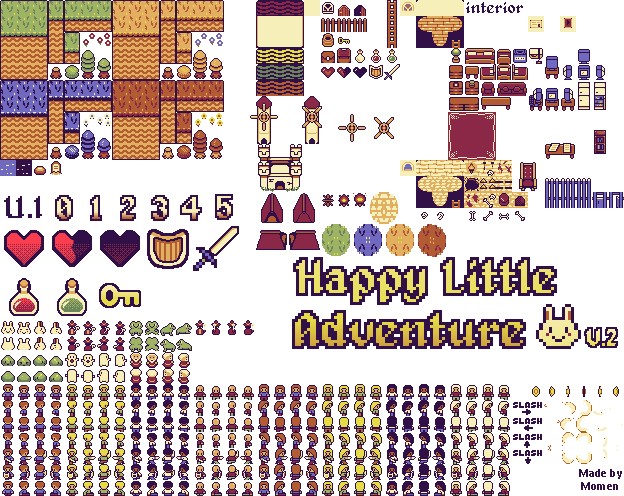
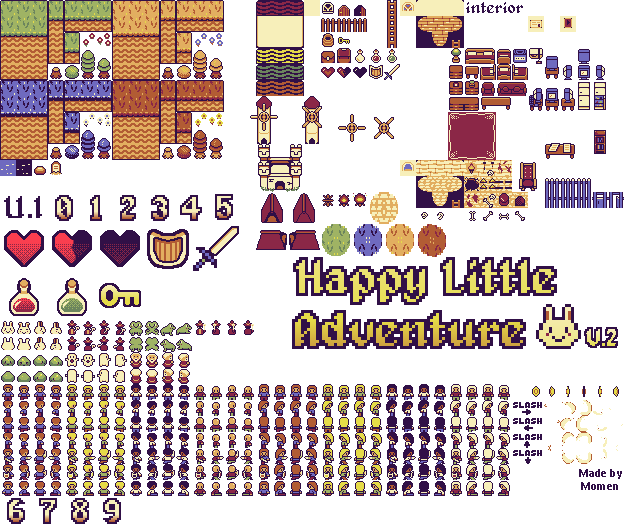
feat: update coin counter to use digit sprites and improve rendering logic

diff --git a/Adventure/src/uiComponents/coinCounter.ts b/Adventure/src/uiComponents/coinCounter.ts
@@ -3,9 +3,14 @@ import { globalState } from "../state/stateManager";
 
 // Shows the running coin total at the top-right of the screen, mirroring the
 // health bar on the left. Auto-updates whenever globalState.coins changes.
+// The count is drawn with the tileset's blackletter digit sprites
+// ("digit-0".."digit-9" in worldBlocks.png) instead of a font.
+const DIGIT_SCALE = 1.25;
+const DIGIT_GAP = 4;
+
 export default class CoinCounter {
   k: KAPLAYCtx;
-  countText: GameObj | null = null;
+  private digitObjs: GameObj[] = [];
   private lastCount = -1;
 
   constructor(k: KAPLAYCtx) {
@@ -25,22 +30,34 @@ export default class CoinCounter {
       "coinCounter",
     ]);
 
-    this.countText = k.add([
-      k.text(String(globalState.coins), { font: "gameboy", size: 32 }),
-      k.pos(rightX, 24),
-      k.anchor("topright"),
-      k.color(255, 214, 92),
-      k.fixed(),
-      k.z(100),
-      "coinCounter",
-    ]);
-
     k.onUpdate(() => {
-      if (!this.countText) return;
       if (this.lastCount !== globalState.coins) {
         this.lastCount = globalState.coins;
-        this.countText.text = String(globalState.coins);
+        this.renderCount(this.lastCount, rightX);
       }
     });
+  }
+
+  // Digits are laid out right-to-left from rightX so the number stays
+  // right-aligned as it grows. Each digit glyph has its own width.
+  private renderCount(count: number, rightX: number) {
+    const k = this.k;
+    this.digitObjs.forEach((obj) => obj.destroy());
+    this.digitObjs = [];
+
+    let x = rightX;
+    for (const d of String(count).split("").reverse()) {
+      const digitObj = k.add([
+        k.sprite(`digit-${d}`),
+        k.pos(x, 24),
+        k.anchor("topright"),
+        k.scale(DIGIT_SCALE),
+        k.fixed(),
+        k.z(100),
+        "coinCounter",
+      ]);
+      x -= digitObj.width * DIGIT_SCALE + DIGIT_GAP;
+      this.digitObjs.push(digitObj);
+    }
   }
 }

diff --git a/Adventure/src/constants.ts b/Adventure/src/constants.ts
@@ -180,7 +180,19 @@ export const WORLD_BLOCK_ANIMS2: Record<number|string,any> = {
     y: 224,
     height: 48,
     width: 48,
-  }
+  },
+  // Blackletter digit glyphs. 0-5 sit next to the "U.1" label; 6-9 live in the
+  // two extra tile rows appended at the bottom of the sheet.
+  "digit-0": { x: 55, y: 195, width: 18, height: 26 },
+  "digit-1": { x: 90, y: 195, width: 12, height: 26 },
+  "digit-2": { x: 120, y: 195, width: 16, height: 26 },
+  "digit-3": { x: 151, y: 195, width: 18, height: 26 },
+  "digit-4": { x: 180, y: 195, width: 22, height: 26 },
+  "digit-5": { x: 215, y: 194, width: 18, height: 26 },
+  "digit-6": { x: 7, y: 498, width: 18, height: 26 },
+  "digit-7": { x: 39, y: 498, width: 18, height: 26 },
+  "digit-8": { x: 71, y: 498, width: 18, height: 26 },
+  "digit-9": { x: 103, y: 498, width: 18, height: 26 },
 }
 
 export const WINDMILL_ANIMS: Record<number|string,any> = {

diff --git a/Adventure/src/main.ts b/Adventure/src/main.ts
@@ -13,7 +13,7 @@ import { globalState } from "./state/stateManager";
 k.loadFont("gameboy", "./assets/gb.ttf");
 k.loadSprite("assets", "./assets/worldBlocks.png", {
   sliceX: 39,
-  sliceY: 31,
+  sliceY: 33,
   anims: WORLD_BLOCK_ANIMS,
 });
 k.loadSpriteAtlas("assets/worldBlocks.png", WORLD_BLOCK_ANIMS2);